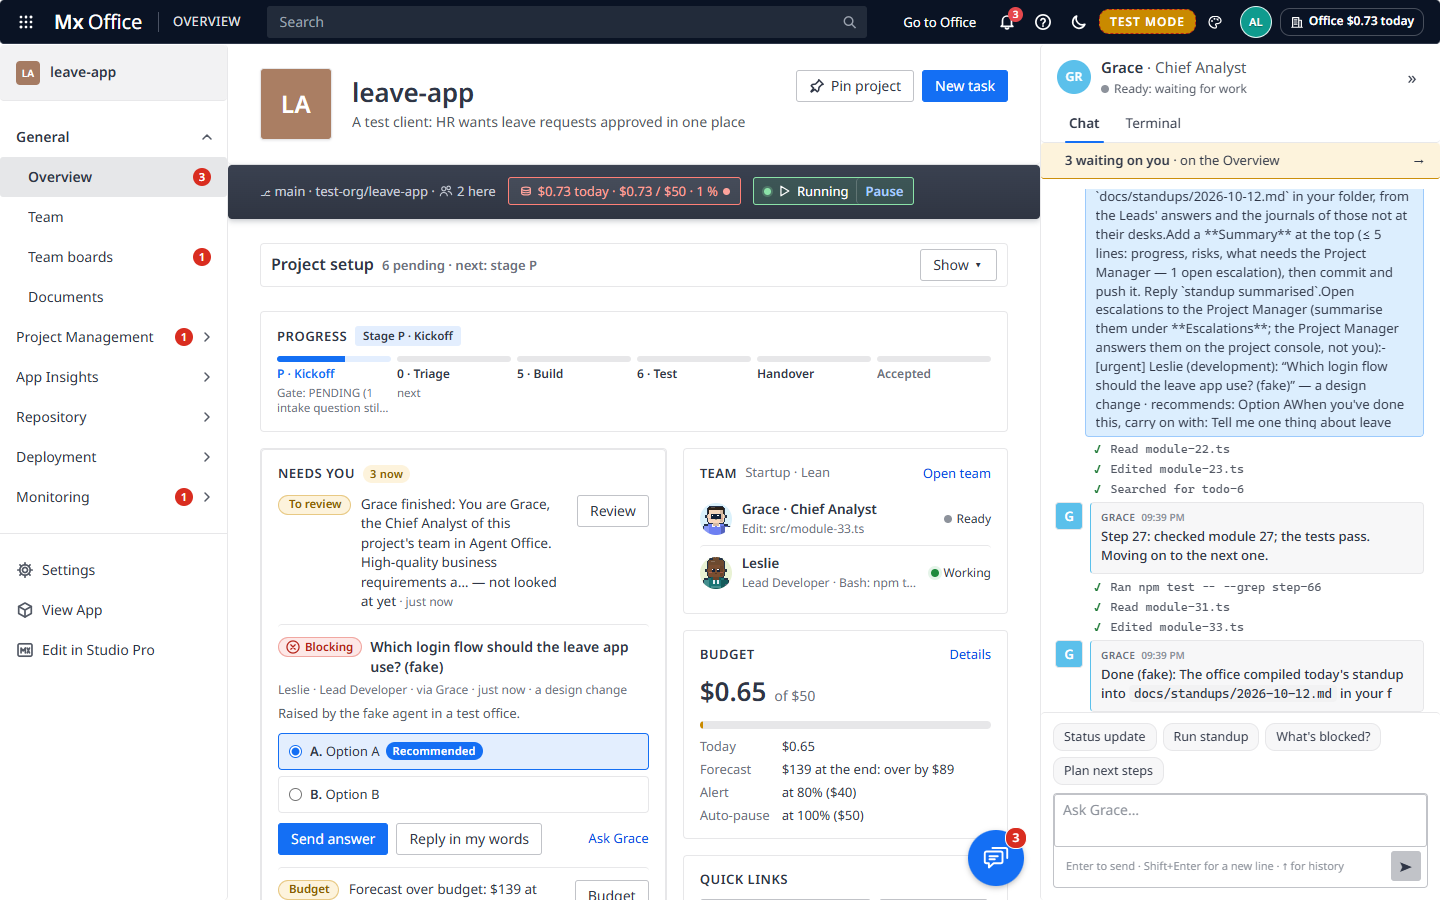
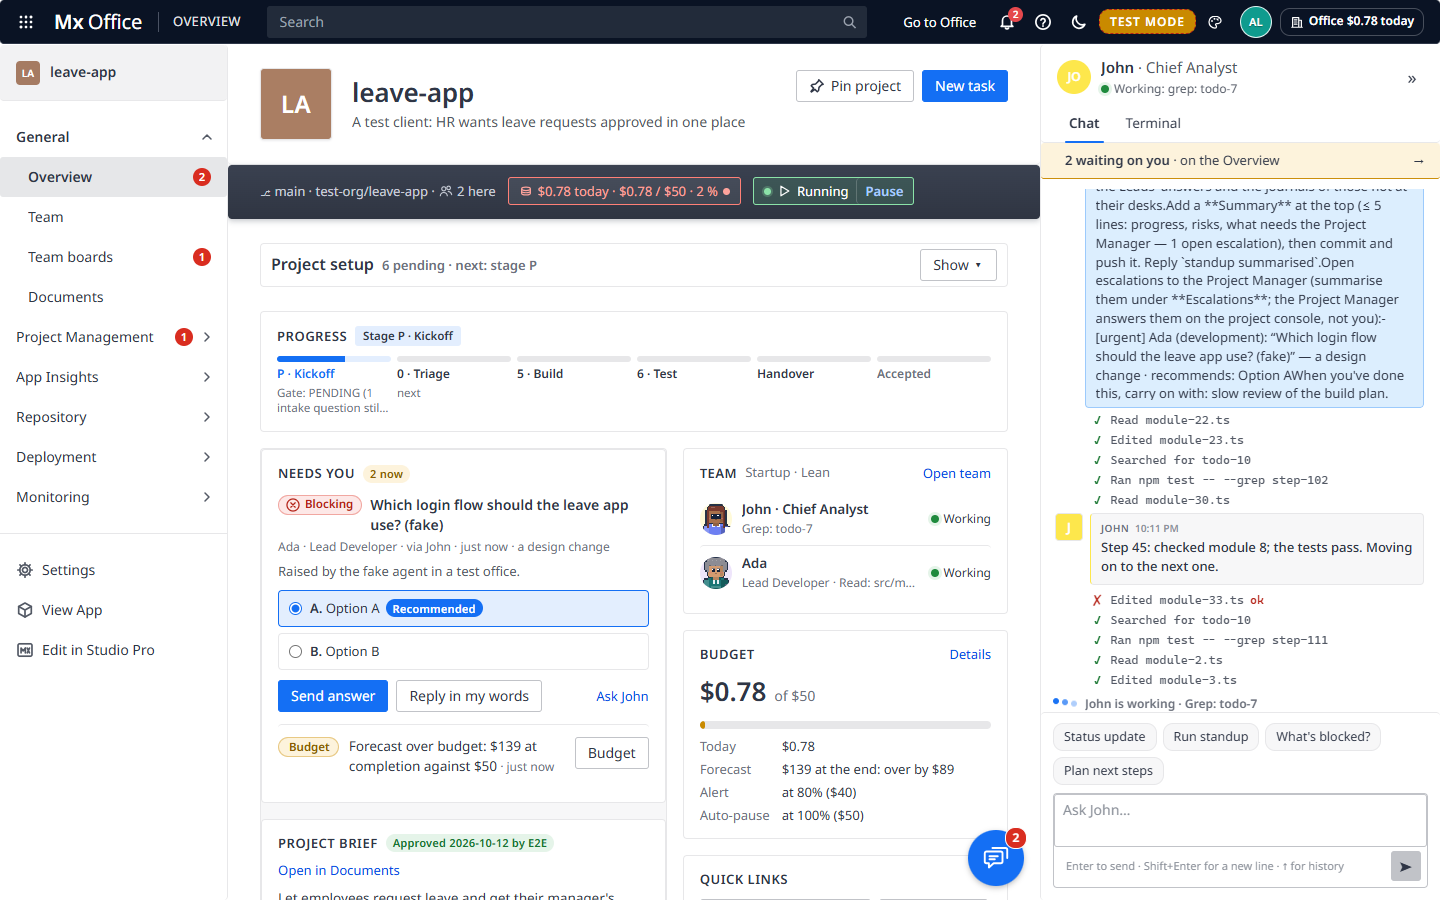
Progress card stages wrap onto another row before a name is cut off; the panel's status stays on one line
With the team-lead panel open at 1440 px the nine toolkit stages left 74 px each, too little for
"2 · Requirements": each stage now has at least 112 px and they take a second row when there isn't
room (a browser test checks every name and line under it is shown whole at 1440 and 1920, open and
collapsed, light and dark). The panel's status line is one line, the whole of it on hover.

diff --git a/tests/overview-progress.test.ts b/tests/overview-progress.test.ts
@@ -1,8 +1,9 @@
 // The Overview's Progress card (Portal) with the team-lead panel open: the mockup cut the stage names off
 // ("Require…", "confirm…") at 1440 px with the panel open. Here, in headless Chromium with every client
 // stylesheet on the page, a toolkit project's nine stages at 1440 and 1920 px, panel open and collapsed,
-// in Portal Light and Dark: every stage's name and the line under it are shown whole (they wrap onto a
-// second line), and the segments' tooltip (on hover and focus) keeps the full text besides.
+// in Portal Light and Dark: every stage's name and the line under it are shown whole (a name wraps onto a
+// second line, and with the panel open the stages take a second row rather than squeezing it), and the
+// segments' tooltip (on hover and focus) keeps the full text besides.
 import test from 'node:test';
 import assert from 'node:assert/strict';
 import { readdirSync, readFileSync, statSync } from 'node:fs';
@@ -36,7 +37,9 @@ const STAGES: [string, string, string, string][] = [
 
 function page(theme: string, collapsed: boolean): string {
   const segs = STAGES.map(([id, t, st, d]) => `<button class="pg-seg ${st} k-stage" data-phase="${id}" aria-label="Stage ${id}, ${t}"><span class="pg-seg-id">${id}</span><span class="pg-seg-t">${t}</span><span class="pg-seg-n" aria-hidden="true">${id} · ${t}</span><span class="pg-seg-d" aria-hidden="true">${d}</span></button>`).join('');
-  const css = sheets('src/client').map((f) => read(f).replace(/@import[^;]+;/g, '')).join('\n');
+  // Every module's sheet and the 1D view's own page sheet, not the other pages' (login.css makes body a grid).
+  const other = (f: string) => path.dirname(f) === path.join('src', 'client') && path.basename(f) !== 'lite.css';
+  const css = sheets('src/client').filter((f) => !other(f)).map((f) => read(f).replace(/@import[^;]+;/g, '')).join('\n');
   return `<!doctype html><html data-theme="${theme}"><head><meta charset="utf-8"><style>${css}</style></head>
 <body class="lite pt-has-nav lp-on${collapsed ? ' lp-collapsed' : ''}"><main class="lite-main on-command board">
 <section class="pt-ov-card pt-prog pt-only" id="pt-progress"><h2>Progress</h2><div id="progress-bar" class="pg-host"><div class="pg-bar"><button class="pg-fold">▾</button><div class="pg-track">${segs}</div><button class="pg-label">Stage 5 · Build</button></div></div></section>
@@ -53,12 +56,12 @@ test('with the panel open at 1440 px the stage names wrap, never cut off', { ski
           const at = `${theme} ${width}px, panel ${collapsed ? 'collapsed' : 'open'}`;
           const p = await browser.newPage({ viewport: { width, height: 900 } });
           await p.setContent(page(theme, collapsed));
-          const m = (await p.evaluate(`(() => [...document.querySelectorAll('.pg-seg-n, .pg-seg-d')].map((el) => ({ t: el.textContent, cut: el.scrollHeight > el.clientHeight + 1 || el.scrollWidth > el.clientWidth + 1, h: el.clientHeight, shown: getComputedStyle(el).display !== 'none' })))()`)) as { t: string; cut: boolean; h: number; shown: boolean }[];
+          const m = (await p.evaluate(`(() => [...document.querySelectorAll('.pg-seg-n, .pg-seg-d')].map((el) => ({ t: el.textContent, cut: el.scrollHeight > el.clientHeight + 1 || el.scrollWidth > el.clientWidth + 1, h: el.clientHeight, sh: el.scrollHeight, w: el.clientWidth, sw: el.scrollWidth, track: Math.round(document.querySelector('.pg-track').getBoundingClientRect().width), shown: getComputedStyle(el).display !== 'none' })))()`)) as { t: string; cut: boolean; h: number; shown: boolean }[];
           await p.close();
           assert.equal(m.length, STAGES.length * 2);
           for (const x of m) {
             assert.ok(x.shown, `${at}: "${x.t}" is shown`);
-            assert.ok(!x.cut, `${at}: "${x.t}" is cut off`);
+            assert.ok(!x.cut, `${at}: "${x.t}" is cut off (${JSON.stringify(x)})`);
           }
         }
   } finally {

diff --git a/src/client/ui/portal/overview.css b/src/client/ui/portal/overview.css
@@ -53,7 +53,8 @@ html[data-theme^='portal'] body.lite .pt-prog :is(#progress-bar, .pg-bar) { disp
 html[data-theme^='portal'] body.lite .pt-prog .pg-fold { display: none; }
 html[data-theme^='portal'] body.lite .pt-prog .pg-label { grid-column: 2; grid-row: 1; max-width: none; height: 20px; padding: 0 8px; border-radius: 10px; background: var(--accent-soft); color: var(--ink); font-size: 11.5px; font-weight: var(--fw-semi); }
 html[data-theme^='portal'] body.lite .pt-prog .pg-tk { grid-column: 4; grid-row: 1; }
-html[data-theme^='portal'] body.lite .pt-prog .pg-track { grid-column: 1 / -1; grid-row: 2; display: grid; grid-auto-flow: column; grid-auto-columns: minmax(0, 1fr); gap: 6px; height: auto; }
+/* At least 112 px a stage, so a name like “3 · Architecture & Design” takes two lines at most: with the team-lead panel open the stages wrap onto a second row rather than squeezing their names. */
+html[data-theme^='portal'] body.lite .pt-prog .pg-track { grid-column: 1 / -1; grid-row: 2; display: grid; grid-template-columns: repeat(auto-fit, minmax(112px, 1fr)); grid-auto-flow: row; gap: 12px 6px; height: auto; }
 /* Each stage: its bar, then its name, then what was measured. The name wraps onto a second line rather than being cut off ("Require…"); the whole of it is in the tooltip on hover and focus. */
 html[data-theme^='portal'] body.lite .pt-prog .pg-seg {
   display: grid; grid-template-columns: minmax(0, 1fr); grid-template-rows: 6px auto auto; align-content: start; gap: 4px; height: auto; min-height: 0; padding: 0 0 2px; overflow: visible;
@@ -67,13 +68,13 @@ html[data-theme^='portal'] body.lite .pt-prog .pg-seg.waiting::before { backgrou
 html[data-theme^='portal'] body.lite .pt-prog .pg-seg.active::before { background: linear-gradient(90deg, var(--accent) 60%, var(--accent-soft) 60%); }
 html[data-theme^='portal'] body.lite .pt-prog .pg-seg.current { box-shadow: none; }
 html[data-theme^='portal'] body.lite .pt-prog .pg-seg:focus-visible { outline: 2px solid var(--focus); outline-offset: 2px; }
-html[data-theme^='portal'] body.lite .pt-prog .pg-seg-n { grid-row: 2; display: -webkit-box; -webkit-box-orient: vertical; -webkit-line-clamp: 2; overflow: hidden; overflow-wrap: anywhere; min-width: 0; }
+html[data-theme^='portal'] body.lite .pt-prog .pg-seg-n { grid-row: 2; display: -webkit-box; -webkit-box-orient: vertical; -webkit-line-clamp: 2; overflow: hidden; overflow-wrap: break-word; min-width: 0; }
 html[data-theme^='portal'] body.lite .pt-prog .pg-seg.active .pg-seg-n { color: var(--accent); }
 html[data-theme^='portal'] body.lite .pt-prog :is(.pg-seg.pending, .pg-seg.waived) .pg-seg-n { color: var(--muted); }
-html[data-theme^='portal'] body.lite .pt-prog .pg-seg-d { grid-row: 3; display: -webkit-box; -webkit-box-orient: vertical; -webkit-line-clamp: 2; overflow: hidden; min-width: 0; color: var(--muted); font-size: 11.5px; font-weight: 400; overflow-wrap: anywhere; }
+html[data-theme^='portal'] body.lite .pt-prog .pg-seg-d { grid-row: 3; display: -webkit-box; -webkit-box-orient: vertical; -webkit-line-clamp: 2; overflow: hidden; min-width: 0; color: var(--muted); font-size: 11.5px; font-weight: 400; overflow-wrap: break-word; }
 html[data-theme^='portal'] body.lite .pt-prog :is(.pg-seg-id, .pg-seg-t, .pg-marks, .pg-seg-tiny) { display: none; }
 @container ov (max-width: 560px) {
-  html[data-theme^='portal'] body.lite .pt-prog .pg-track { grid-auto-flow: row; grid-template-columns: repeat(3, minmax(0, 1fr)); row-gap: 12px; }
+  html[data-theme^='portal'] body.lite .pt-prog .pg-track { grid-template-columns: repeat(auto-fit, minmax(96px, 1fr)); }
 }
 
 /* ---- Needs you ---------------------------------------------------------------------------------------- */

diff --git a/src/client/ui/lead-panel/lead-panel.css b/src/client/ui/lead-panel/lead-panel.css
@@ -26,7 +26,9 @@ body.lp-collapsed .lp { transform: translateX(24px); opacity: 0; visibility: hid
 .lp-who { flex: 1; min-width: 0; }
 .lp-name { font-size: 15px; font-weight: 600; white-space: nowrap; overflow: hidden; text-overflow: ellipsis; }
 .lp-name-r { font-weight: 400; color: var(--ink-2); }
-.lp-status { min-height: 18px; margin-top: 1px; font-size: 12px; color: var(--ink-2); }
+.lp-status { min-height: 18px; margin-top: 1px; overflow: hidden; font-size: 12px; color: var(--ink-2); white-space: nowrap; text-overflow: ellipsis; }
+.lp-status .lp-st { display: flex; min-width: 0; }
+.lp-st-t { min-width: 0; overflow: hidden; text-overflow: ellipsis; white-space: nowrap; }
 .lp-st { display: inline-flex; align-items: center; gap: 5px; }
 .lp-st i, .lp-rail-dot { flex: none; width: 8px; height: 8px; border-radius: 50%; background: var(--faint); }
 .lp-st-work i, .lp-rail-dot.lp-st-work { background: var(--good); box-shadow: 0 0 0 3px var(--good-soft); }

diff --git a/src/client/ui/lead-panel/panel.ts b/src/client/ui/lead-panel/panel.ts
@@ -243,8 +243,9 @@ export class LeadPanel {
     if (this.avKey !== this.avatarKey()) ((this.avKey = this.avatarKey()), this.head.av.replaceChildren(this.avatarEl()));
     this.head.name.textContent = hd.name;
     this.head.role.textContent = this.lead?.kind === 'none' ? '' : ` · ${hd.role}`;
-    this.head.status.replaceChildren(h('span.lp-st', { class: `lp-st-${st.dot}` }, h('i', { 'aria-hidden': 'true' }), st.text));
-    this.head.status.title = facts ? `Team: ${facts}` : '';
+    this.head.status.replaceChildren(h('span.lp-st', { class: `lp-st-${st.dot}` }, h('i', { 'aria-hidden': 'true' }), h('span.lp-st-t', {}, st.text)));
+    // One line; the whole of it (and the team's shape) on hover.
+    this.head.status.title = `${st.text}${facts ? ` · Team: ${facts}` : ''}`;
     this.wakeBtn.hidden = !(this.view.canWake && this.member());
   }
 

diff --git a/tests/portal-alignment.test.ts b/tests/portal-alignment.test.ts
@@ -46,7 +46,9 @@ test('the Progress card’s stage names wrap onto a second line instead of being
   const css = read('src/client/ui/portal/overview.css');
   const name = css.match(/\.pt-prog \.pg-seg-n \{([^}]*)\}/)?.[1] ?? '';
   assert.match(name, /-webkit-line-clamp: 2/);
-  assert.match(name, /overflow-wrap: anywhere/);
+  assert.match(name, /overflow-wrap: break-word/);
+  // Wide enough for two lines: the stages wrap onto another row before a name is squeezed.
+  assert.match(css, /\.pt-prog \.pg-track \{[^}]*grid-template-columns: repeat\(auto-fit, minmax\(112px, 1fr\)\);/);
   assert.doesNotMatch(name, /white-space: nowrap|text-overflow: ellipsis/);
   assert.match(css, /\.pt-prog \.pg-seg \{[^}]*white-space: normal;/);
   // The bar's tooltip (the segment's hover and focus) has the whole name and what was measured.

diff --git a/docs/site/using-the-office/command-center.md b/docs/site/using-the-office/command-center.md
@@ -16,7 +16,7 @@ The **🎛 Command Center** is the first tab of every project and the place t
 In Portal (Light) and Portal (Dark) the Command Center is the **Overview** (the first item of the [left navigation](top-bar-and-menu.md#portal-layout)), laid out as cards, and the page scrolls instead of fitting the screen:
 
 - **The header**: the project's tile, name and what it's for, **Pin project** (it comes first on Home's Projects page) and the blue **New task**. Under it the band with the floor's line (the budget chip and **● Running | Pause**, the run-state control below). **Call an audit** is on the [Audit log](audit-log.md) page.
-- **Progress**, across the page: the toolkit's stages (then Handover and Accepted) as bars, each with its name and a line under it (*done*, *✋ confirmed 2 Oct*, *✋ needs your sign-off*, what was measured for the stage in progress, *next*), the current stage as a chip and the 🧰 toolkit chip on the right. A long stage name wraps onto a second line rather than being cut off; hover or focus a stage for all of it. A click opens the setup panel, the documents or the acceptance record, as the [progress bar](#the-progress-bar) does.
+- **Progress**, across the page: the toolkit's stages (then Handover and Accepted) as bars, each with its name and a line under it (*done*, *✋ confirmed 2 Oct*, *✋ needs your sign-off*, what was measured for the stage in progress, *next*), the current stage as a chip and the 🧰 toolkit chip on the right. A long stage name wraps onto a second line rather than being cut off (with the team-lead panel open, the stages take a second row when there isn't room for them in one); hover or focus a stage for all of it. A click opens the setup panel, the documents or the acceptance record, as the [progress bar](#the-progress-bar) does.
 - **The main column**:
   - **Needs you**: everything that waits on you, most urgent first, with a count (*3 now*, or *All clear*). Each **escalation is a full card**: a tag in words as well as colour (*Blocking*, *Decision*), its title, who raised it (*Dylan · Lead Developer · via Ada · 18m ago · a design change*), the question, the options with the recommended one marked **Recommended** and picked for you, and *Why A: …*. **Send answer** sends the option picked (*Go with: …*), **Reply in my words** opens a box for your own answer, and **Ask &lt;lead&gt;** puts *About "…":* in the team-lead panel's box. A pull request merged but not verified (when [judging](testing.md) is on) is a *Not verified* card with **Re-run checks**, **Waive** (opens Testing, where a waiver takes a reason) and **Send back** (with what you write). Everything else is a row with its tag and its button: an agent asking (*Asking you* · **Answer**), a ✋ sign-off (*✋ Sign-off* · **Sign off**), an approval, a failing PR, the budget, and the rest of the [Needs you items](#needs-you). An answered escalation shows as *Answered* with what was sent. Someone who isn't the Project Manager sees the cards but can't answer them.
   - **Project brief**, for a project made from an approved brief in the new-project flow: its goal, an *Approved* chip, its functional domains and its open questions, and **Open in Documents** for the whole of `docs/project-brief.md`.
